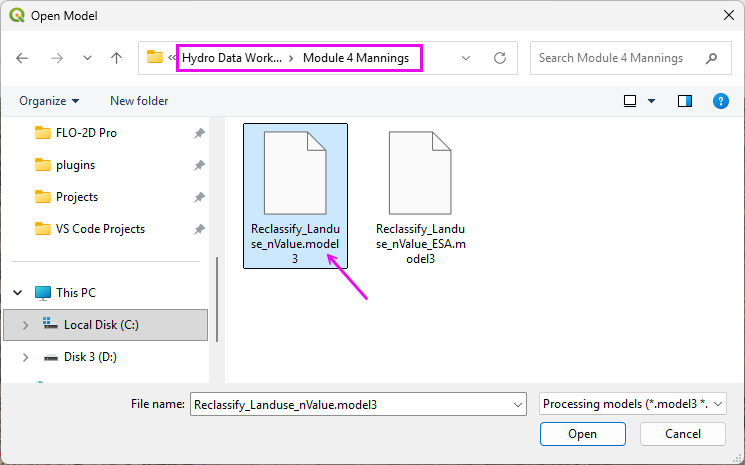
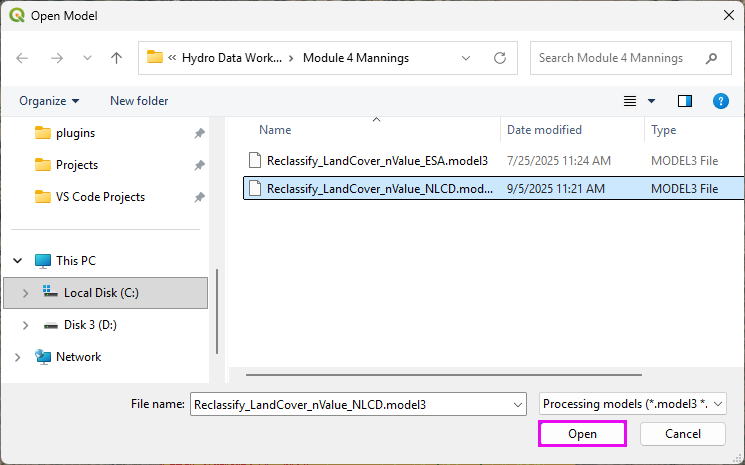
finish step 4

diff --git a/source/tutorials/hydrowkshp/module4.rst b/source/tutorials/hydrowkshp/module4.rst
@@ -22,12 +22,6 @@ Step 1: Load land cover data (NLCD)
 Step 2: Download the USGS data
 ---------------------------------------------------
 
-.. note:: **Curve Number Generator** seems much faster than this download method.
-   Skip or cancel this download if it’s taking too long.
-
-   Curve Number Generator is limited to an allowable size limit.
-   For large projects download in batches or use the USGS method.
-
 - Connect to the NLCD Land Cover data.
 
 |hydrow031a|
@@ -60,7 +54,7 @@ Step 2: Download the USGS data
 
 |hydrow031h|
 
-- Note the difference between the Curve Number Generator and the NLCD Current data.
+- Note the difference between the Curve Number Generator 2021 and the Land Cover NLCD Server 2024 data.
 
 |hydrow031d|
 
@@ -74,11 +68,11 @@ The full table is in the Excel Spreadsheet.
 
 |hydrow032|
 
-- Mannings roughness for shallow overland flow developed for FLO-2D. Example Table.
+- Mannings roughness for shallow overland flow developed for FLO-2D. (source: FCDMC)
 
 |hydrow033|
 
-Step 4: Run NLCD landuse roughness processor
+Step 4: Run NLCD Land Cover Roughness processor 
 ---------------------------------------------------
 
 - Open the **Processing Toolbox**.
@@ -93,15 +87,23 @@ Step 4: Run NLCD landuse roughness processor
 
 |hydrow036|
 
-- This table can be modified to reflect **Local Manning’s n value standards**.
+- This table may be modified to reflect local Manning’s n value standards. 
+
+.. note:: Every raster value must be explicitly assigned a corresponding Manning’s n value. 
+  If one value is omitted, the processor may fail during roughness surface generation.
 
 |hydrow037|
+
+.. hint:: Processor models are script-based. Editing the table in a plain text editor is often 
+   faster than using the graphical interface.
+
+|hydrow037a|
 
 - Run the processor model to reclassify the landuse data as roughness data.
 
 |hydrow038|
 
-Step 5: Load land cover data (ESA World)
+Step 5: Load Land Cover data (ESA World)
 ---------------------------------------------------
 
 Curve Number Generator ESA
@@ -118,7 +120,7 @@ Curve Number Generator ESA
 |hydrow030a|
 
 
-Step 6: Run ESA landuse roughness processor
+Step 6: Run ESA Land Cover Roughness processor
 ---------------------------------------------------
 
 This processor works on World Data.
@@ -232,6 +234,8 @@ Step 8: Interpolate to the Grid
 .. |hydrow036| image:: ../img/hydrowkshp/hydrow036.jpg
 
 .. |hydrow037| image:: ../img/hydrowkshp/hydrow037.png
+
+.. |hydrow037a| image:: ../img/hydrowkshp/hydrow037a.png
 
 .. |hydrow038| image:: ../img/hydrowkshp/hydrow038.png
 
